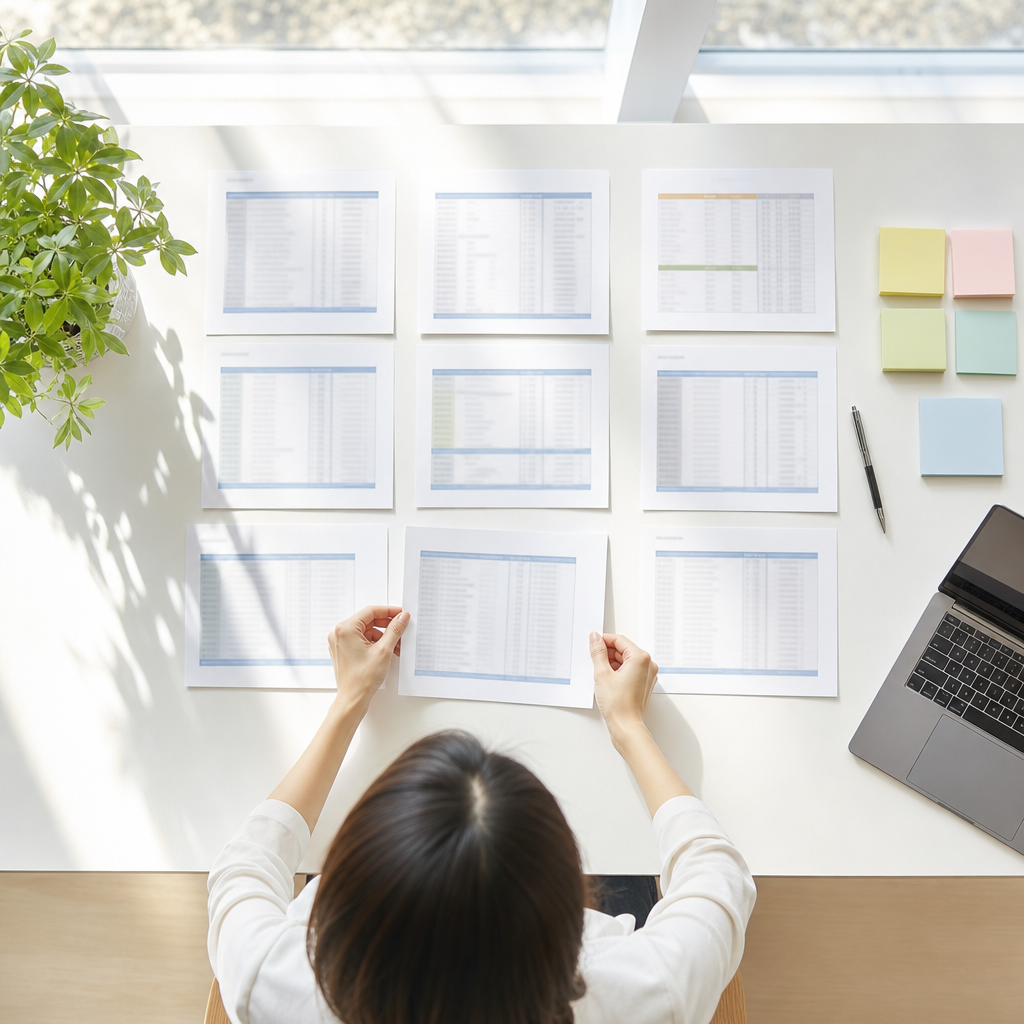
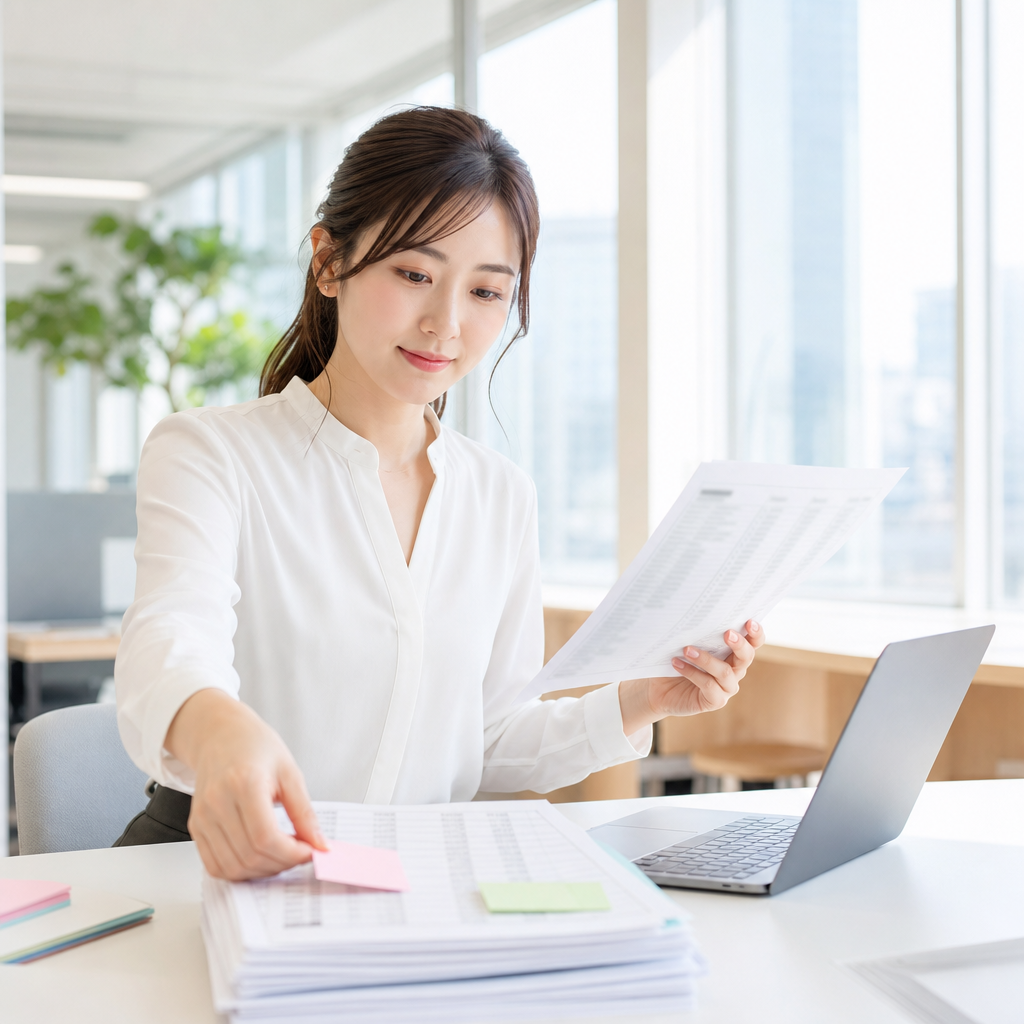
Apply independent review fixes for motion, photos, and pricing copy
- Remove dead hero-rise declaration; shorten hero wipe delay to keep
  the LCP image visible almost immediately
- Release will-change after reveal completes
- Fire reveals earlier on mobile (threshold 0.08, no negative rootMargin)
- Reshoot use-case photo 02 as a chest-up shot to match the series
- Fix theme-count contradictions in the price card meta and JSON-LD
  offer; align two alt texts with actual imagery

Reviewed by independent UI/motion and copy subagents (both PASS).

diff --git a/index.html b/index.html
@@ -46,7 +46,7 @@
     "areaServed": "JP",
     "offers": [
       {"@type": "Offer", "name": "一か月導入パック（初回限定）", "price": "200000", "priceCurrency": "JPY", "description": "一か月、1テーマのGAS/API連携実装と運用ルール整備"},
-      {"@type": "Offer", "name": "一か月導入パック（通常）", "price": "300000", "priceCurrency": "JPY", "description": "一か月、1〜3テーマのアプリ連携・GAS/API実装支援"}
+      {"@type": "Offer", "name": "一か月導入パック（通常）", "price": "300000", "priceCurrency": "JPY", "description": "一か月、1テーマのアプリ連携・GAS/API実装支援。複数テーマは標準・拡張プランで対応"}
     ]
   }
   </script>
@@ -256,7 +256,7 @@
       </div>
       <div class="stories-grid">
         <article class="story">
-          <div class="story__image"><img src="./assets/generated/02-skill-library.png" alt="紙の帳票を整理しながら転記作業を進める担当者の手元" loading="lazy"></div>
+          <div class="story__image"><img src="./assets/generated/02-skill-library.png" alt="積み上がった帳票に付箋を貼りながら整理する担当者" loading="lazy"></div>
           <div class="story__body">
             <span class="story__num">Theme 01</span>
             <h3>Google Sheets起点の<br>転記・集計自動化</h3>
@@ -274,7 +274,7 @@
           </div>
         </article>
         <article class="story">
-          <div class="story__image"><img src="./assets/generated/04-matching.png" alt="ホワイトボードで案件・台帳情報を整理する担当者" loading="lazy"></div>
+          <div class="story__image"><img src="./assets/generated/04-matching.png" alt="ガラスボードに付箋を貼りながら案件・台帳情報を整理する担当者" loading="lazy"></div>
           <div class="story__body">
             <span class="story__num">Theme 03</span>
             <h3>kintone台帳の<br>登録・更新・通知</h3>
@@ -403,7 +403,7 @@
           <span class="price-card__label">初回限定 / 一か月導入 / 税別</span>
           <span class="price-card__original">通常 ¥300,000〜</span>
           <strong class="price-card__amount">¥200,000<small>〜</small></strong>
-          <p class="price-card__meta">一か月 / 週1回60分×4回 / チャット・メール質疑 / 対象テーマ1〜3つ</p>
+          <p class="price-card__meta">一か月 / 週1回60分×4回 / チャット・メール質疑 / 対象テーマ1つ</p>
           <small class="price-card__note">限定価格は初回ライト導入が対象。連携範囲により通常 ¥800,000 程度まで</small>
         </article>
       </div>
@@ -632,7 +632,7 @@
         io.unobserve(en.target);
       }
     });
-  }, { threshold: 0.12, rootMargin: '0px 0px -8% 0px' });
+  }, { threshold: 0.08, rootMargin: '0px 0px 0px 0px' });
 
   var all = document.querySelectorAll('[data-reveal]');
   for (var k = 0; k < all.length; k++) io.observe(all[k]);

diff --git a/styles-editorial.css b/styles-editorial.css
@@ -1840,6 +1840,7 @@
   .editorial-lp [data-reveal].is-visible {
     opacity: 1;
     transform: none;
+    will-change: auto;
   }
 
   /* 画像のマスクワイプ＋ズームアウト */
@@ -1869,7 +1870,6 @@
   html.js-motion .editorial-lp .hero__copy h1 { animation: hero-rise 1s cubic-bezier(0.22, 1, 0.36, 1) 0.18s both; }
   html.js-motion .editorial-lp .hero__lead { animation: hero-rise 1s cubic-bezier(0.22, 1, 0.36, 1) 0.38s both; }
   html.js-motion .editorial-lp .hero__actions { animation: hero-rise 1s cubic-bezier(0.22, 1, 0.36, 1) 0.56s both; }
-  html.js-motion .editorial-lp .hero__visual { animation: hero-rise 1.1s cubic-bezier(0.22, 1, 0.36, 1) 0.45s both; }
 
   /* カードのホバー浮き上がり */
   .editorial-lp .why-card,
@@ -1910,10 +1910,10 @@
     to { transform: scale(1); }
   }
   html.js-motion .editorial-lp .hero__visual {
-    animation: hero-wipe 1.2s cubic-bezier(0.77, 0, 0.175, 1) 0.5s both;
+    animation: hero-wipe 1s cubic-bezier(0.77, 0, 0.175, 1) 0.15s both;
   }
   html.js-motion .editorial-lp .hero__visual img {
-    animation: hero-img-zoom 1.9s cubic-bezier(0.22, 1, 0.36, 1) 0.5s both;
+    animation: hero-img-zoom 1.7s cubic-bezier(0.22, 1, 0.36, 1) 0.15s both;
   }
 
   /* ヒーロー見出しの赤い手書き下線が左から描かれる */